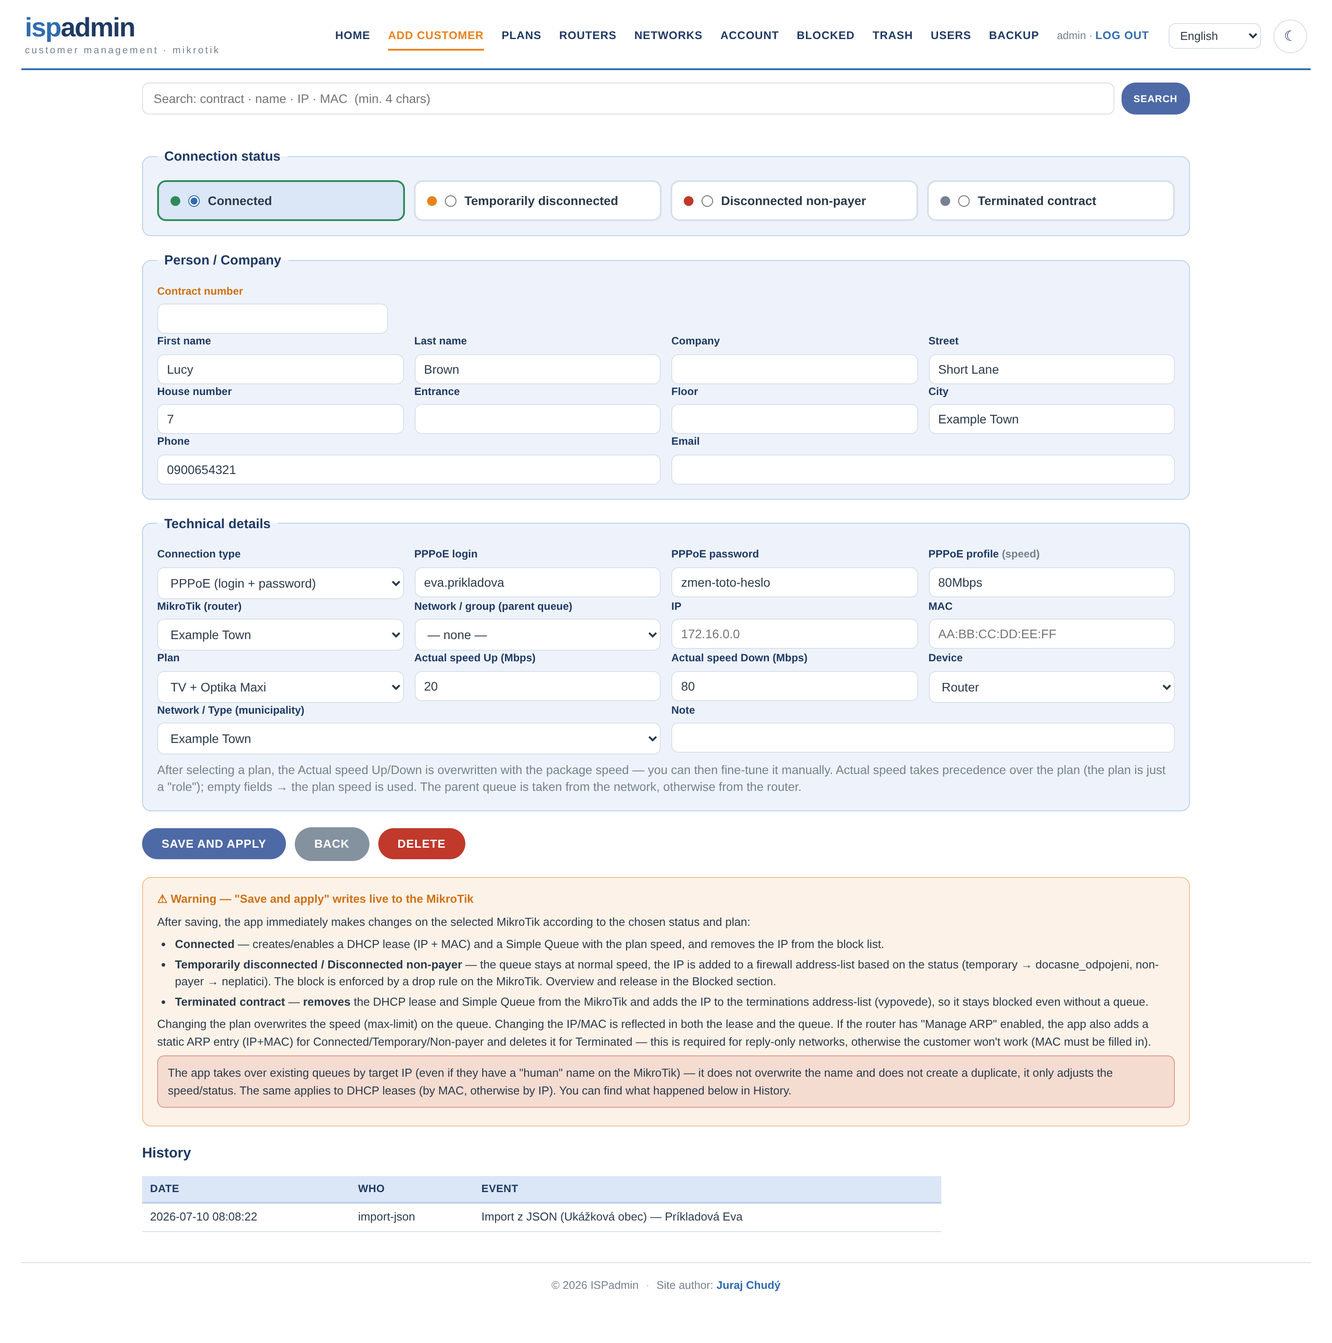
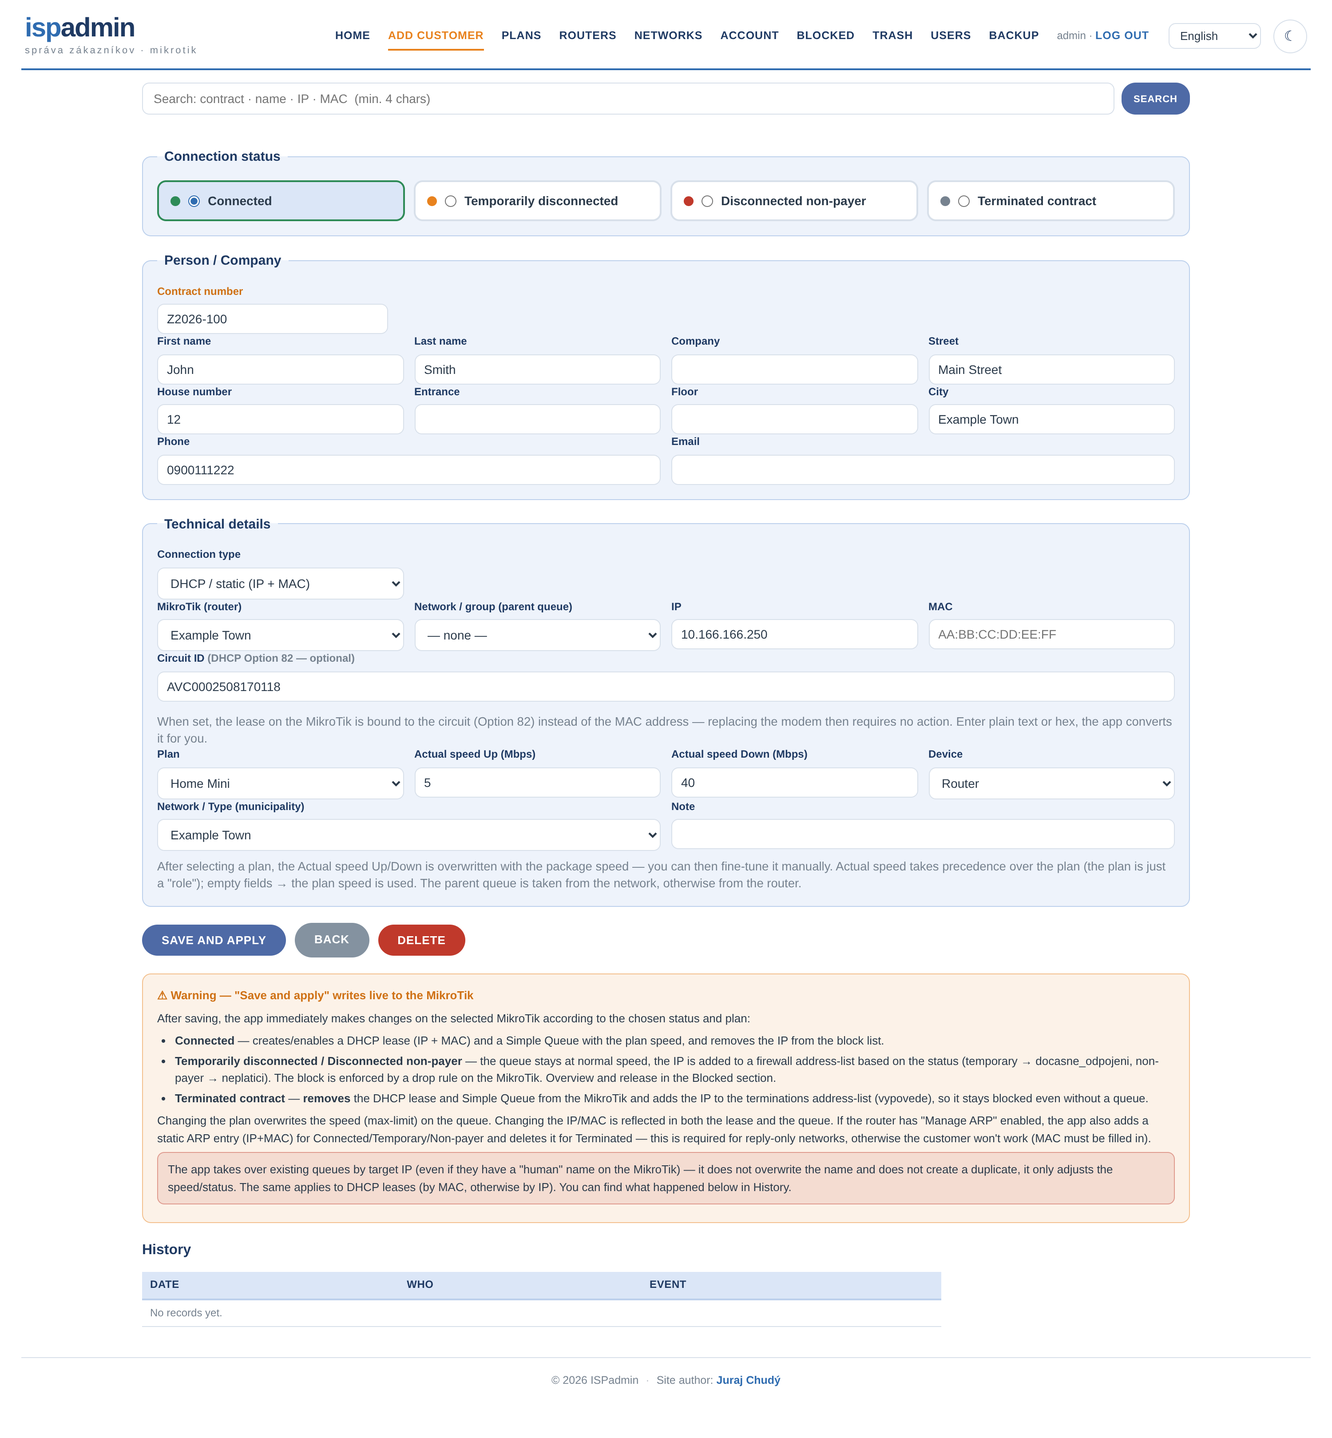
Provision DHCP leases by Option 82 Agent Circuit ID (#1)

diff --git a/lib/mikrotik.php b/lib/mikrotik.php
@@ -30,6 +30,55 @@ function mt_ascii(string $s): string
     return preg_replace('/[^\x20-\x7E]/', '', $s);
 }
 
+/**
+ * Normalizuje Circuit ID (DHCP Option 82) na hex retazec pre RouterOS.
+ *
+ * Pouzivatel moze zadat:
+ *   - citatelny text:  AVC0002508170118   -> 41564330303032353038313730313138
+ *   - hex z Winboxu:   4156433030...3138  -> ponecha sa
+ *   - hex s prefixom:  0x415643...        -> prefix sa odstrani
+ *
+ * RouterOS ocakava agent-circuit-id ako hex retazec.
+ */
+function mt_circuit_hex(string $s): string
+{
+    $s = trim($s);
+    if ($s === '') return '';
+    // 0x prefix (Winbox/CLI zapis)
+    if (stripos($s, '0x') === 0) {
+        $s = substr($s, 2);
+    }
+    // Vyzera to ako hex? Uzname to len vtedy, ked sa dekoduje na citatelny ASCII text.
+    // Inak by sa napr. ciselne circuit ID "0012345678" mylne povazovalo za hex.
+    if (strlen($s) >= 4 && strlen($s) % 2 === 0 && preg_match('/^[0-9A-Fa-f]+$/', $s)) {
+        $bin = @hex2bin($s);
+        if ($bin !== false && $bin !== '' && !preg_match('/[^\x20-\x7E]/', $bin)) {
+            return strtolower($s);      // je to hex citatelneho textu
+        }
+    }
+    // inak je to citatelny text -> zakoduj
+    return strtolower(bin2hex(mt_ascii($s)));
+}
+
+/**
+ * Opak mt_circuit_hex - hex prevedie na citatelny text (na zobrazenie).
+ * Ak sa neda dekodovat na tlacitelny ASCII text, vrati povodnu hodnotu.
+ */
+function mt_circuit_text(string $s): string
+{
+    $s = trim($s);
+    if ($s === '') return '';
+    if (stripos($s, '0x') === 0) $s = substr($s, 2);
+    if (strlen($s) % 2 !== 0 || !preg_match('/^[0-9A-Fa-f]+$/', $s)) {
+        return $s;   // nie je hex, zjavne uz citatelny text
+    }
+    $bin = @hex2bin($s);
+    if ($bin === false || $bin === '' || preg_match('/[^\x20-\x7E]/', $bin)) {
+        return $s;   // binarne data, nechaj hex
+    }
+    return $bin;
+}
+
 function mt_connect(array $router): array
 {
     $api = new RouterosApi();
@@ -114,6 +163,9 @@ function mt_apply_customer(int $customerId): array
 
     $ip  = trim($c['ip']);
     $mac = strtoupper(trim($c['mac']));
+    // Circuit ID (DHCP Option 82) - alternativa k MAC pri identifikacii zakaznika.
+    // RouterOS ocakava hex; pouzivatel moze zadat citatelny text aj hex (viz mt_circuit_hex).
+    $circuitHex = mt_circuit_hex((string)($c['circuit_id'] ?? ''));
     if ($ip === '' && ($c['conn_type'] ?? 'dhcp') !== 'pppoe') {
         return ['ok' => false, 'msg' => 'chýba IP'];
     }
@@ -173,12 +225,24 @@ function mt_apply_customer(int $customerId): array
             return ['ok' => true, 'msg' => $router['name'] . ': ' . implode(', ', $log)];
         }
 
-        // --- DHCP lease (len ak mame MAC; staticke IP bez DHCP preskocime) ---
-        if ($mac !== '') {
-            $leases = $api->comm('/ip/dhcp-server/lease/print', ['?mac-address' => $mac]);
-            $leaseId = $leases['items'][0]['.id'] ?? null;
-            if (!$leaseId) {
-                // prevezmi existujuci lease podla IP (aj ked ma iny zapis MAC)
+        // --- DHCP lease ---
+        // Zakaznik sa identifikuje bud MAC adresou, alebo Circuit ID (DHCP Option 82).
+        // Circuit ID ma prednost: viaze sa na fyzicky okruh, takze vymena modemu
+        // (a teda zmena MAC) nevyzaduje ziadny zasah.
+        if ($mac !== '' || $circuitHex !== '') {
+            $leaseId = null;
+            // 1) hladaj podla circuit ID (ak je zadane)
+            if ($circuitHex !== '') {
+                $byCid = $api->comm('/ip/dhcp-server/lease/print', ['?agent-circuit-id' => $circuitHex]);
+                $leaseId = $byCid['items'][0]['.id'] ?? null;
+            }
+            // 2) inak podla MAC
+            if (!$leaseId && $mac !== '') {
+                $leases = $api->comm('/ip/dhcp-server/lease/print', ['?mac-address' => $mac]);
+                $leaseId = $leases['items'][0]['.id'] ?? null;
+            }
+            // 3) prevezmi existujuci lease podla IP (aj ked ma iny zapis MAC / bez circuit ID)
+            if (!$leaseId && $ip !== '') {
                 $byIp = $api->comm('/ip/dhcp-server/lease/print', ['?address' => $ip]);
                 $leaseId = $byIp['items'][0]['.id'] ?? null;
             }
@@ -189,23 +253,29 @@ function mt_apply_customer(int $customerId): array
                     $log[] = 'lease zmazany';
                 }
             } else {
-                $args = ['address' => $ip, 'mac-address' => $mac, 'comment' => $comment];
+                $args = ['address' => $ip, 'comment' => $comment];
+                if ($circuitHex !== '') {
+                    // viazanie na okruh - MAC sa zamerne neposiela, aby lease prezil vymenu modemu
+                    $args['agent-circuit-id'] = $circuitHex;
+                } elseif ($mac !== '') {
+                    $args['mac-address'] = $mac;
+                }
                 if (trim($router['dhcp_server']) !== '') {
                     $args['server'] = trim($router['dhcp_server']);
                 }
                 if ($leaseId) {
                     $api->comm('/ip/dhcp-server/lease/set', ['.id' => $leaseId] + $args);
-                    $log[] = 'lease aktualizovany';
+                    $log[] = $circuitHex !== '' ? 'lease aktualizovany (circuit ID)' : 'lease aktualizovany';
                 } else {
                     $r = $api->comm('/ip/dhcp-server/lease/add', $args);
                     if ($r['status'] === 'error') {
                         throw new RuntimeException('lease: ' . $r['message']);
                     }
-                    $log[] = 'lease pridany';
+                    $log[] = $circuitHex !== '' ? 'lease pridany (circuit ID)' : 'lease pridany';
                 }
             }
         } else {
-            $log[] = 'bez MAC (lease neriešený)';
+            $log[] = 'bez MAC a circuit ID (lease neriešený)';
         }
 
         // --- Simple queue (realna rychlost ma prednost pred programom) ---

diff --git a/lang/ru.php b/lang/ru.php
@@ -343,6 +343,6 @@ return [
     'Nevybraný žiadny súbor' => 'Файл не выбран',
     'Obnoviť databázu' => 'Восстановить базу данных',
     '(DHCP Option 82 — voliteľné)' => '(DHCP Option 82 — необязательно)',
-    'napr. identifikátor portu / okruhu od operátora' => 'напр. идентификатор порта / канала от оператора',
-    'Identifikátor okruhu z DHCP Option 82. Zatiaľ sa len eviduje — automatické prideľovanie IP podľa Circuit ID zatiaľ nie je implementované.' => 'Идентификатор канала из DHCP Option 82. Пока только фиксируется — автоматическое назначение IP по Circuit ID ещё не реализовано.',
+    'napr. AVC0002508170118' => 'напр. AVC0002508170118',
+    'Ak je vyplnené, lease sa na MikroTiku viaže na okruh (Option 82) namiesto MAC adresy — výmena modemu potom nevyžaduje žiadny zásah. Zadaj čitateľný text aj hex, appka si prevod spraví sama.' => 'Если заполнено, аренда на MikroTik привязывается к каналу (Option 82) вместо MAC-адреса — замена модема тогда не требует никаких действий. Вводите обычный текст или hex, приложение само выполнит преобразование.',
 ];

diff --git a/lang/uk.php b/lang/uk.php
@@ -343,6 +343,6 @@ return [
     'Nevybraný žiadny súbor' => 'Файл не вибрано',
     'Obnoviť databázu' => 'Відновити базу даних',
     '(DHCP Option 82 — voliteľné)' => '(DHCP Option 82 — необов\'язково)',
-    'napr. identifikátor portu / okruhu od operátora' => 'напр. ідентифікатор порту / каналу від оператора',
-    'Identifikátor okruhu z DHCP Option 82. Zatiaľ sa len eviduje — automatické prideľovanie IP podľa Circuit ID zatiaľ nie je implementované.' => 'Ідентифікатор каналу з DHCP Option 82. Наразі лише фіксується — автоматичне призначення IP за Circuit ID ще не реалізовано.',
+    'napr. AVC0002508170118' => 'напр. AVC0002508170118',
+    'Ak je vyplnené, lease sa na MikroTiku viaže na okruh (Option 82) namiesto MAC adresy — výmena modemu potom nevyžaduje žiadny zásah. Zadaj čitateľný text aj hex, appka si prevod spraví sama.' => 'Якщо заповнено, оренда на MikroTik прив\'язується до каналу (Option 82) замість MAC-адреси — заміна модема тоді не потребує жодних дій. Вводь звичайний текст або hex, застосунок сам виконає перетворення.',
 ];

diff --git a/lang/hu.php b/lang/hu.php
@@ -343,6 +343,6 @@ return [
     'Nevybraný žiadny súbor' => 'Nincs kiválasztott fájl',
     'Obnoviť databázu' => 'Adatbázis visszaállítása',
     '(DHCP Option 82 — voliteľné)' => '(DHCP Option 82 — opcionális)',
-    'napr. identifikátor portu / okruhu od operátora' => 'pl. a szolgáltatótól kapott port-/áramkör-azonosító',
-    'Identifikátor okruhu z DHCP Option 82. Zatiaľ sa len eviduje — automatické prideľovanie IP podľa Circuit ID zatiaľ nie je implementované.' => 'Áramkör-azonosító a DHCP Option 82-ből. Egyelőre csak nyilvántartásra kerül — a Circuit ID alapú automatikus IP-kiosztás még nincs megvalósítva.',
+    'napr. AVC0002508170118' => 'pl. AVC0002508170118',
+    'Ak je vyplnené, lease sa na MikroTiku viaže na okruh (Option 82) namiesto MAC adresy — výmena modemu potom nevyžaduje žiadny zásah. Zadaj čitateľný text aj hex, appka si prevod spraví sama.' => 'Ha ki van töltve, a MikroTik-en a lease az áramkörhöz (Option 82) kötődik a MAC-cím helyett — a modem cseréje így nem igényel beavatkozást. Adj meg olvasható szöveget vagy hexet, az alkalmazás elvégzi az átalakítást.',
 ];

diff --git a/lang/ro.php b/lang/ro.php
@@ -343,6 +343,6 @@ return [
     'Nevybraný žiadny súbor' => 'Niciun fișier selectat',
     'Obnoviť databázu' => 'Restaurează baza de date',
     '(DHCP Option 82 — voliteľné)' => '(DHCP Option 82 — opțional)',
-    'napr. identifikátor portu / okruhu od operátora' => 'ex. identificatorul portului / circuitului de la operator',
-    'Identifikátor okruhu z DHCP Option 82. Zatiaľ sa len eviduje — automatické prideľovanie IP podľa Circuit ID zatiaľ nie je implementované.' => 'Identificatorul circuitului din DHCP Option 82. Deocamdată este doar înregistrat — alocarea automată a IP-ului după Circuit ID nu este încă implementată.',
+    'napr. AVC0002508170118' => 'ex. AVC0002508170118',
+    'Ak je vyplnené, lease sa na MikroTiku viaže na okruh (Option 82) namiesto MAC adresy — výmena modemu potom nevyžaduje žiadny zásah. Zadaj čitateľný text aj hex, appka si prevod spraví sama.' => 'Dacă este completat, lease-ul pe MikroTik este legat de circuit (Option 82) în loc de adresa MAC — înlocuirea modemului nu mai necesită nicio intervenție. Introdu text lizibil sau hex, aplicația face conversia singură.',
 ];

diff --git a/lang/pl.php b/lang/pl.php
@@ -343,6 +343,6 @@ return [
     'Nevybraný žiadny súbor' => 'Nie wybrano pliku',
     'Obnoviť databázu' => 'Przywróć bazę danych',
     '(DHCP Option 82 — voliteľné)' => '(DHCP Option 82 — opcjonalne)',
-    'napr. identifikátor portu / okruhu od operátora' => 'np. identyfikator portu / łącza od operatora',
-    'Identifikátor okruhu z DHCP Option 82. Zatiaľ sa len eviduje — automatické prideľovanie IP podľa Circuit ID zatiaľ nie je implementované.' => 'Identyfikator łącza z DHCP Option 82. Na razie tylko ewidencjonowany — automatyczne przydzielanie IP według Circuit ID nie jest jeszcze zaimplementowane.',
+    'napr. AVC0002508170118' => 'np. AVC0002508170118',
+    'Ak je vyplnené, lease sa na MikroTiku viaže na okruh (Option 82) namiesto MAC adresy — výmena modemu potom nevyžaduje žiadny zásah. Zadaj čitateľný text aj hex, appka si prevod spraví sama.' => 'Jeśli wypełnione, dzierżawa na MikroTiku jest powiązana z łączem (Option 82) zamiast z adresem MAC — wymiana modemu nie wymaga wtedy żadnej interwencji. Wpisz zwykły tekst lub hex, aplikacja sama dokona konwersji.',
 ];

diff --git a/lang/de.php b/lang/de.php
@@ -343,6 +343,6 @@ return [
     'Nevybraný žiadny súbor' => 'Keine Datei ausgewählt',
     'Obnoviť databázu' => 'Datenbank wiederherstellen',
     '(DHCP Option 82 — voliteľné)' => '(DHCP Option 82 — optional)',
-    'napr. identifikátor portu / okruhu od operátora' => 'z. B. Port-/Anschlusskennung des Netzbetreibers',
-    'Identifikátor okruhu z DHCP Option 82. Zatiaľ sa len eviduje — automatické prideľovanie IP podľa Circuit ID zatiaľ nie je implementované.' => 'Anschlusskennung aus DHCP Option 82. Wird vorerst nur erfasst — die automatische IP-Vergabe anhand der Circuit ID ist noch nicht implementiert.',
+    'napr. AVC0002508170118' => 'z. B. AVC0002508170118',
+    'Ak je vyplnené, lease sa na MikroTiku viaže na okruh (Option 82) namiesto MAC adresy — výmena modemu potom nevyžaduje žiadny zásah. Zadaj čitateľný text aj hex, appka si prevod spraví sama.' => 'Wenn gesetzt, wird der Lease auf dem MikroTik an den Anschluss (Option 82) statt an die MAC-Adresse gebunden — ein Modemtausch erfordert dann keinen Eingriff. Klartext oder Hex eingeben, die App konvertiert es selbst.',
 ];

diff --git a/lang/lv.php b/lang/lv.php
@@ -343,6 +343,6 @@ return [
     'Nevybraný žiadny súbor' => 'Nav izvēlēts neviens fails',
     'Obnoviť databázu' => 'Atjaunot datubāzi',
     '(DHCP Option 82 — voliteľné)' => '(DHCP Option 82 — neobligāti)',
-    'napr. identifikátor portu / okruhu od operátora' => 'piem. porta / līnijas identifikators no operatora',
-    'Identifikátor okruhu z DHCP Option 82. Zatiaľ sa len eviduje — automatické prideľovanie IP podľa Circuit ID zatiaľ nie je implementované.' => 'Līnijas identifikators no DHCP Option 82. Pagaidām tiek tikai reģistrēts — automātiska IP piešķiršana pēc Circuit ID vēl nav ieviesta.',
+    'napr. AVC0002508170118' => 'piem. AVC0002508170118',
+    'Ak je vyplnené, lease sa na MikroTiku viaže na okruh (Option 82) namiesto MAC adresy — výmena modemu potom nevyžaduje žiadny zásah. Zadaj čitateľný text aj hex, appka si prevod spraví sama.' => 'Ja aizpildīts, noma MikroTik tiek saistīta ar līniju (Option 82), nevis MAC adresi — modema nomaiņa tad neprasa nekādu iejaukšanos. Ievadi lasāmu tekstu vai hex, lietotne pārveidos to pati.',
 ];

diff --git a/lang/cs.php b/lang/cs.php
@@ -343,6 +343,6 @@ return [
     'Nevybraný žiadny súbor' => 'Nevybrán žádný soubor',
     'Obnoviť databázu' => 'Obnovit databázi',
     '(DHCP Option 82 — voliteľné)' => '(DHCP Option 82 — volitelné)',
-    'napr. identifikátor portu / okruhu od operátora' => 'např. identifikátor portu / okruhu od operátora',
-    'Identifikátor okruhu z DHCP Option 82. Zatiaľ sa len eviduje — automatické prideľovanie IP podľa Circuit ID zatiaľ nie je implementované.' => 'Identifikátor okruhu z DHCP Option 82. Zatím se pouze eviduje — automatické přidělování IP podle Circuit ID zatím není implementováno.',
+    'napr. AVC0002508170118' => 'např. AVC0002508170118',
+    'Ak je vyplnené, lease sa na MikroTiku viaže na okruh (Option 82) namiesto MAC adresy — výmena modemu potom nevyžaduje žiadny zásah. Zadaj čitateľný text aj hex, appka si prevod spraví sama.' => 'Pokud je vyplněno, lease se na MikroTiku váže na okruh (Option 82) místo MAC adresy — výměna modemu pak nevyžaduje žádný zásah. Zadej čitelný text i hex, aplikace si převod udělá sama.',
 ];

diff --git a/lang/en.php b/lang/en.php
@@ -343,6 +343,6 @@ return [
     'Nevybraný žiadny súbor' => 'No file selected',
     'Obnoviť databázu' => 'Restore database',
     '(DHCP Option 82 — voliteľné)' => '(DHCP Option 82 — optional)',
-    'napr. identifikátor portu / okruhu od operátora' => 'e.g. port / circuit identifier from the carrier',
-    'Identifikátor okruhu z DHCP Option 82. Zatiaľ sa len eviduje — automatické prideľovanie IP podľa Circuit ID zatiaľ nie je implementované.' => 'Circuit identifier from DHCP Option 82. Recorded for reference only — automatic IP assignment by Circuit ID is not implemented yet.',
+    'napr. AVC0002508170118' => 'e.g. AVC0002508170118',
+    'Ak je vyplnené, lease sa na MikroTiku viaže na okruh (Option 82) namiesto MAC adresy — výmena modemu potom nevyžaduje žiadny zásah. Zadaj čitateľný text aj hex, appka si prevod spraví sama.' => 'When set, the lease on the MikroTik is bound to the circuit (Option 82) instead of the MAC address — replacing the modem then requires no action. Enter plain text or hex, the app converts it for you.',
 ];

diff --git a/public/customer.php b/public/customer.php
@@ -279,8 +279,8 @@ function sel($a, $b): string { return (string)$a === (string)$b ? ' selected' : 
     <div class="grid g1">
       <div class="cell">
         <label>Circuit ID <span class="muted"><?= t('(DHCP Option 82 — voliteľné)') ?></span></label>
-        <input name="circuit_id" value="<?= h($c['circuit_id'] ?? '') ?>" placeholder="<?= h(t('napr. identifikátor portu / okruhu od operátora')) ?>">
-        <div class="hint"><?= t('Identifikátor okruhu z DHCP Option 82. Zatiaľ sa len eviduje — automatické prideľovanie IP podľa Circuit ID zatiaľ nie je implementované.') ?></div>
+        <input name="circuit_id" value="<?= h($c['circuit_id'] ?? '') ?>" placeholder="<?= h(t('napr. AVC0002508170118')) ?>">
+        <div class="hint"><?= t('Ak je vyplnené, lease sa na MikroTiku viaže na okruh (Option 82) namiesto MAC adresy — výmena modemu potom nevyžaduje žiadny zásah. Zadaj čitateľný text aj hex, appka si prevod spraví sama.') ?></div>
       </div>
     </div>
     <div class="grid g4">

diff --git a/README.md b/README.md
@@ -16,7 +16,7 @@ Lightweight web-based customer management for small ISPs, built on top of the **
 - Optional geo-blocking of the login (allow selected countries only, via Cloudflare header or offline CIDR lists)
 - **10 languages** — language picker on the login screen and in the header (Slovak, Czech, English, German, Polish, Hungarian, Romanian, Ukrainian, Latvian, Russian)
 - Light / dark theme, responsive UI
-- Optional `Circuit ID` field per customer (DHCP Option 82) — recorded for reference; automatic IP assignment by Circuit ID is planned, see [issue #1](https://github.com/MikrotikExe/ispadmin/issues/1)
+- **DHCP Option 82 support** — bind a customer's lease to the physical circuit (Agent Circuit ID) instead of the MAC address, so swapping a modem needs no reconfiguration
 
 ## Screenshots
 
@@ -106,11 +106,32 @@ PPPoE customers are managed through `/ppp/secret` (login, password, profile) ins
 
 ## Circuit ID (DHCP Option 82)
 
-Each customer record has an optional **Circuit ID** field for the DHCP Option 82 agent circuit identifier (for example an NBN AVC ID, or a port identifier from a DSLAM or access switch).
+Each customer has an optional **Circuit ID** field holding the DHCP Option 82 agent circuit identifier — for example an NBN AVC ID in Australia, or a port identifier from a DSLAM or access switch.
 
-Right now the field is **stored for reference only** — nothing is provisioned from it. The intent is to key customers off the physical circuit rather than the MAC address, so that replacing a customer's modem doesn't require re-entering anything. Automatic IP assignment driven by Circuit ID (via RouterOS 7 `/ip/dhcp-server/matcher`) is planned; progress and the technical discussion live in [issue #1](https://github.com/MikrotikExe/ispadmin/issues/1).
+**When the field is filled, the app binds the DHCP lease to the circuit instead of the MAC address.** The MAC is deliberately not sent, so the customer can replace their modem and the lease still applies — no reconfiguration, no manual re-entry. The router matches the lease using the `agent-circuit-id` parameter:
 
-If you run Option 82 in production, a sample of your real circuit ID format in that issue would be very welcome.
+```
+/ip dhcp-server lease add address=10.0.0.50 \
+    agent-circuit-id=41564330303032353038313730313138 server=dhcp1
+```
+
+If the Circuit ID is empty, the app falls back to the usual MAC-based lease, so existing setups are unaffected.
+
+### Entering the value
+
+RouterOS displays Option 82 identifiers as hex, but the underlying value is usually plain text. You can paste either form and the app normalises it:
+
+| What you enter | Stored / sent to the router |
+|---|---|
+| `AVC0002508170118` | `41564330303032353038313730313138` |
+| `41564330303032353038313730313138` | unchanged |
+| `0x4156433030...` | `0x` prefix stripped |
+
+A string is only treated as hex if it decodes to readable text — so a purely numeric circuit ID such as `0012345678` is correctly kept as text rather than misread as hex. To force hex interpretation of a binary identifier, prefix it with `0x`.
+
+To find the value on a running system, look at an active lease in RouterOS (`IP → DHCP Server → Leases`, the **Agent Circuit Id** field), or take it from the carrier's service order.
+
+Notes and open questions live in [issue #1](https://github.com/MikrotikExe/ispadmin/issues/1).
 
 ## Plans and aggregation
 
